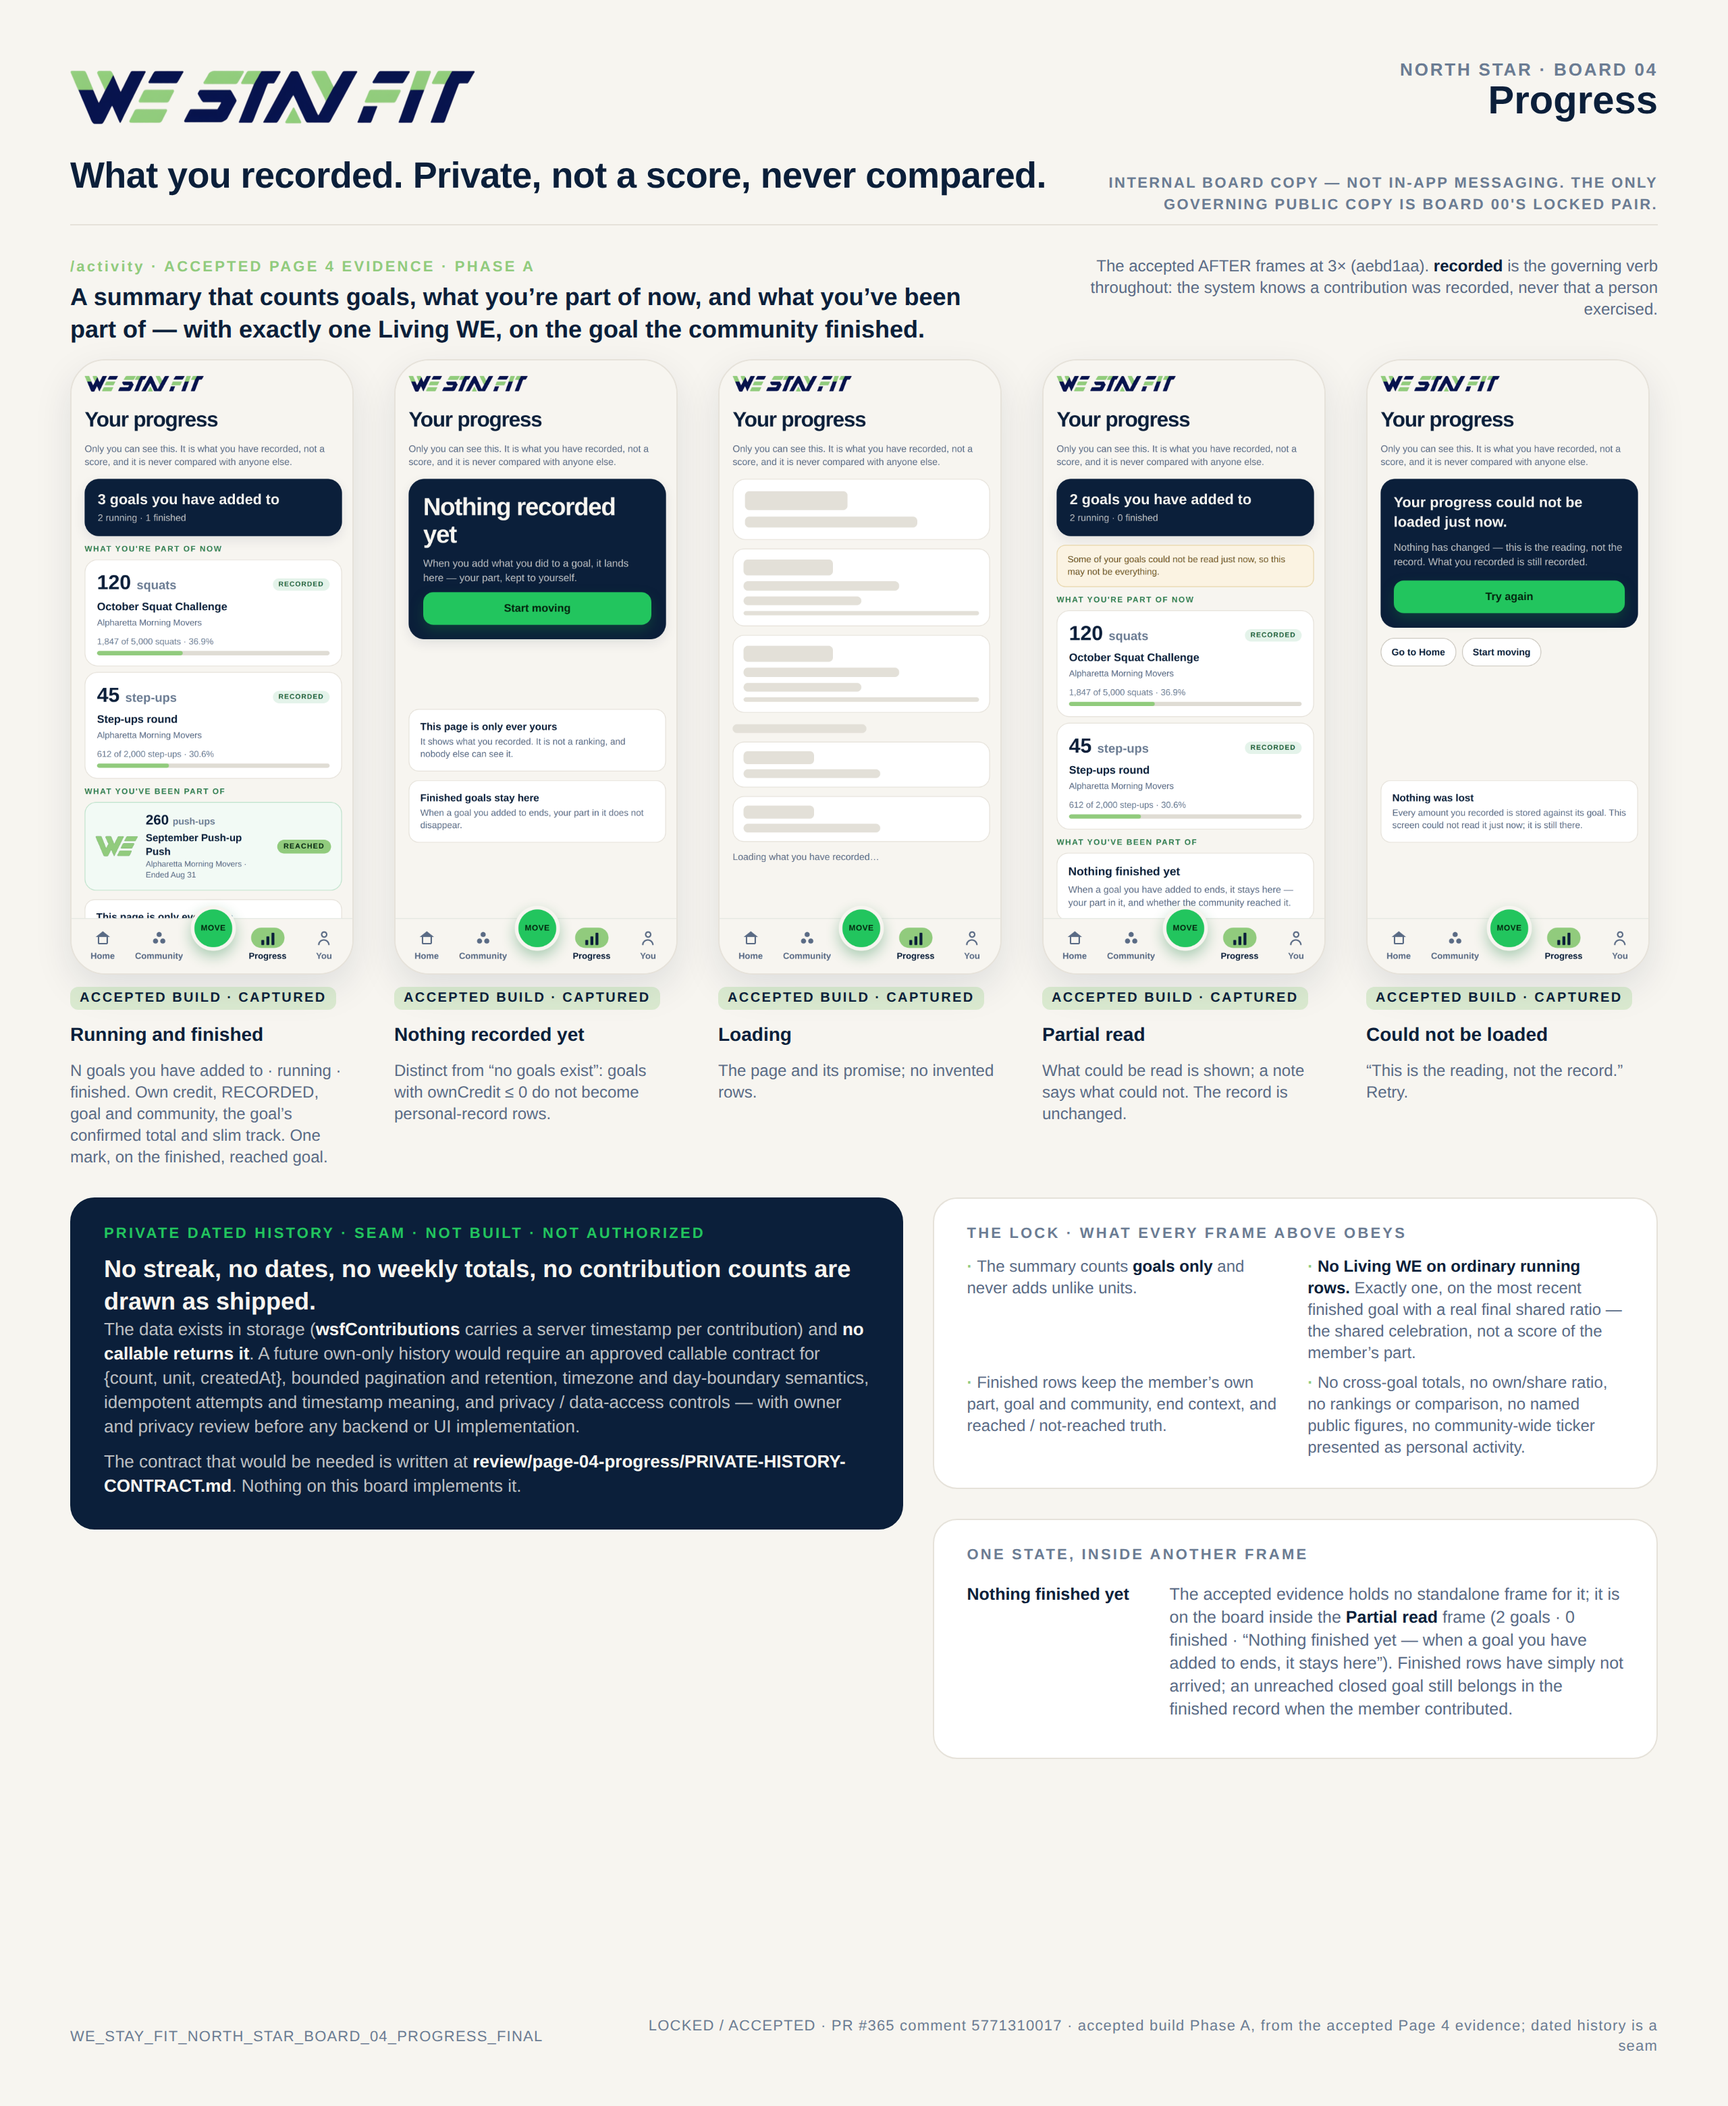
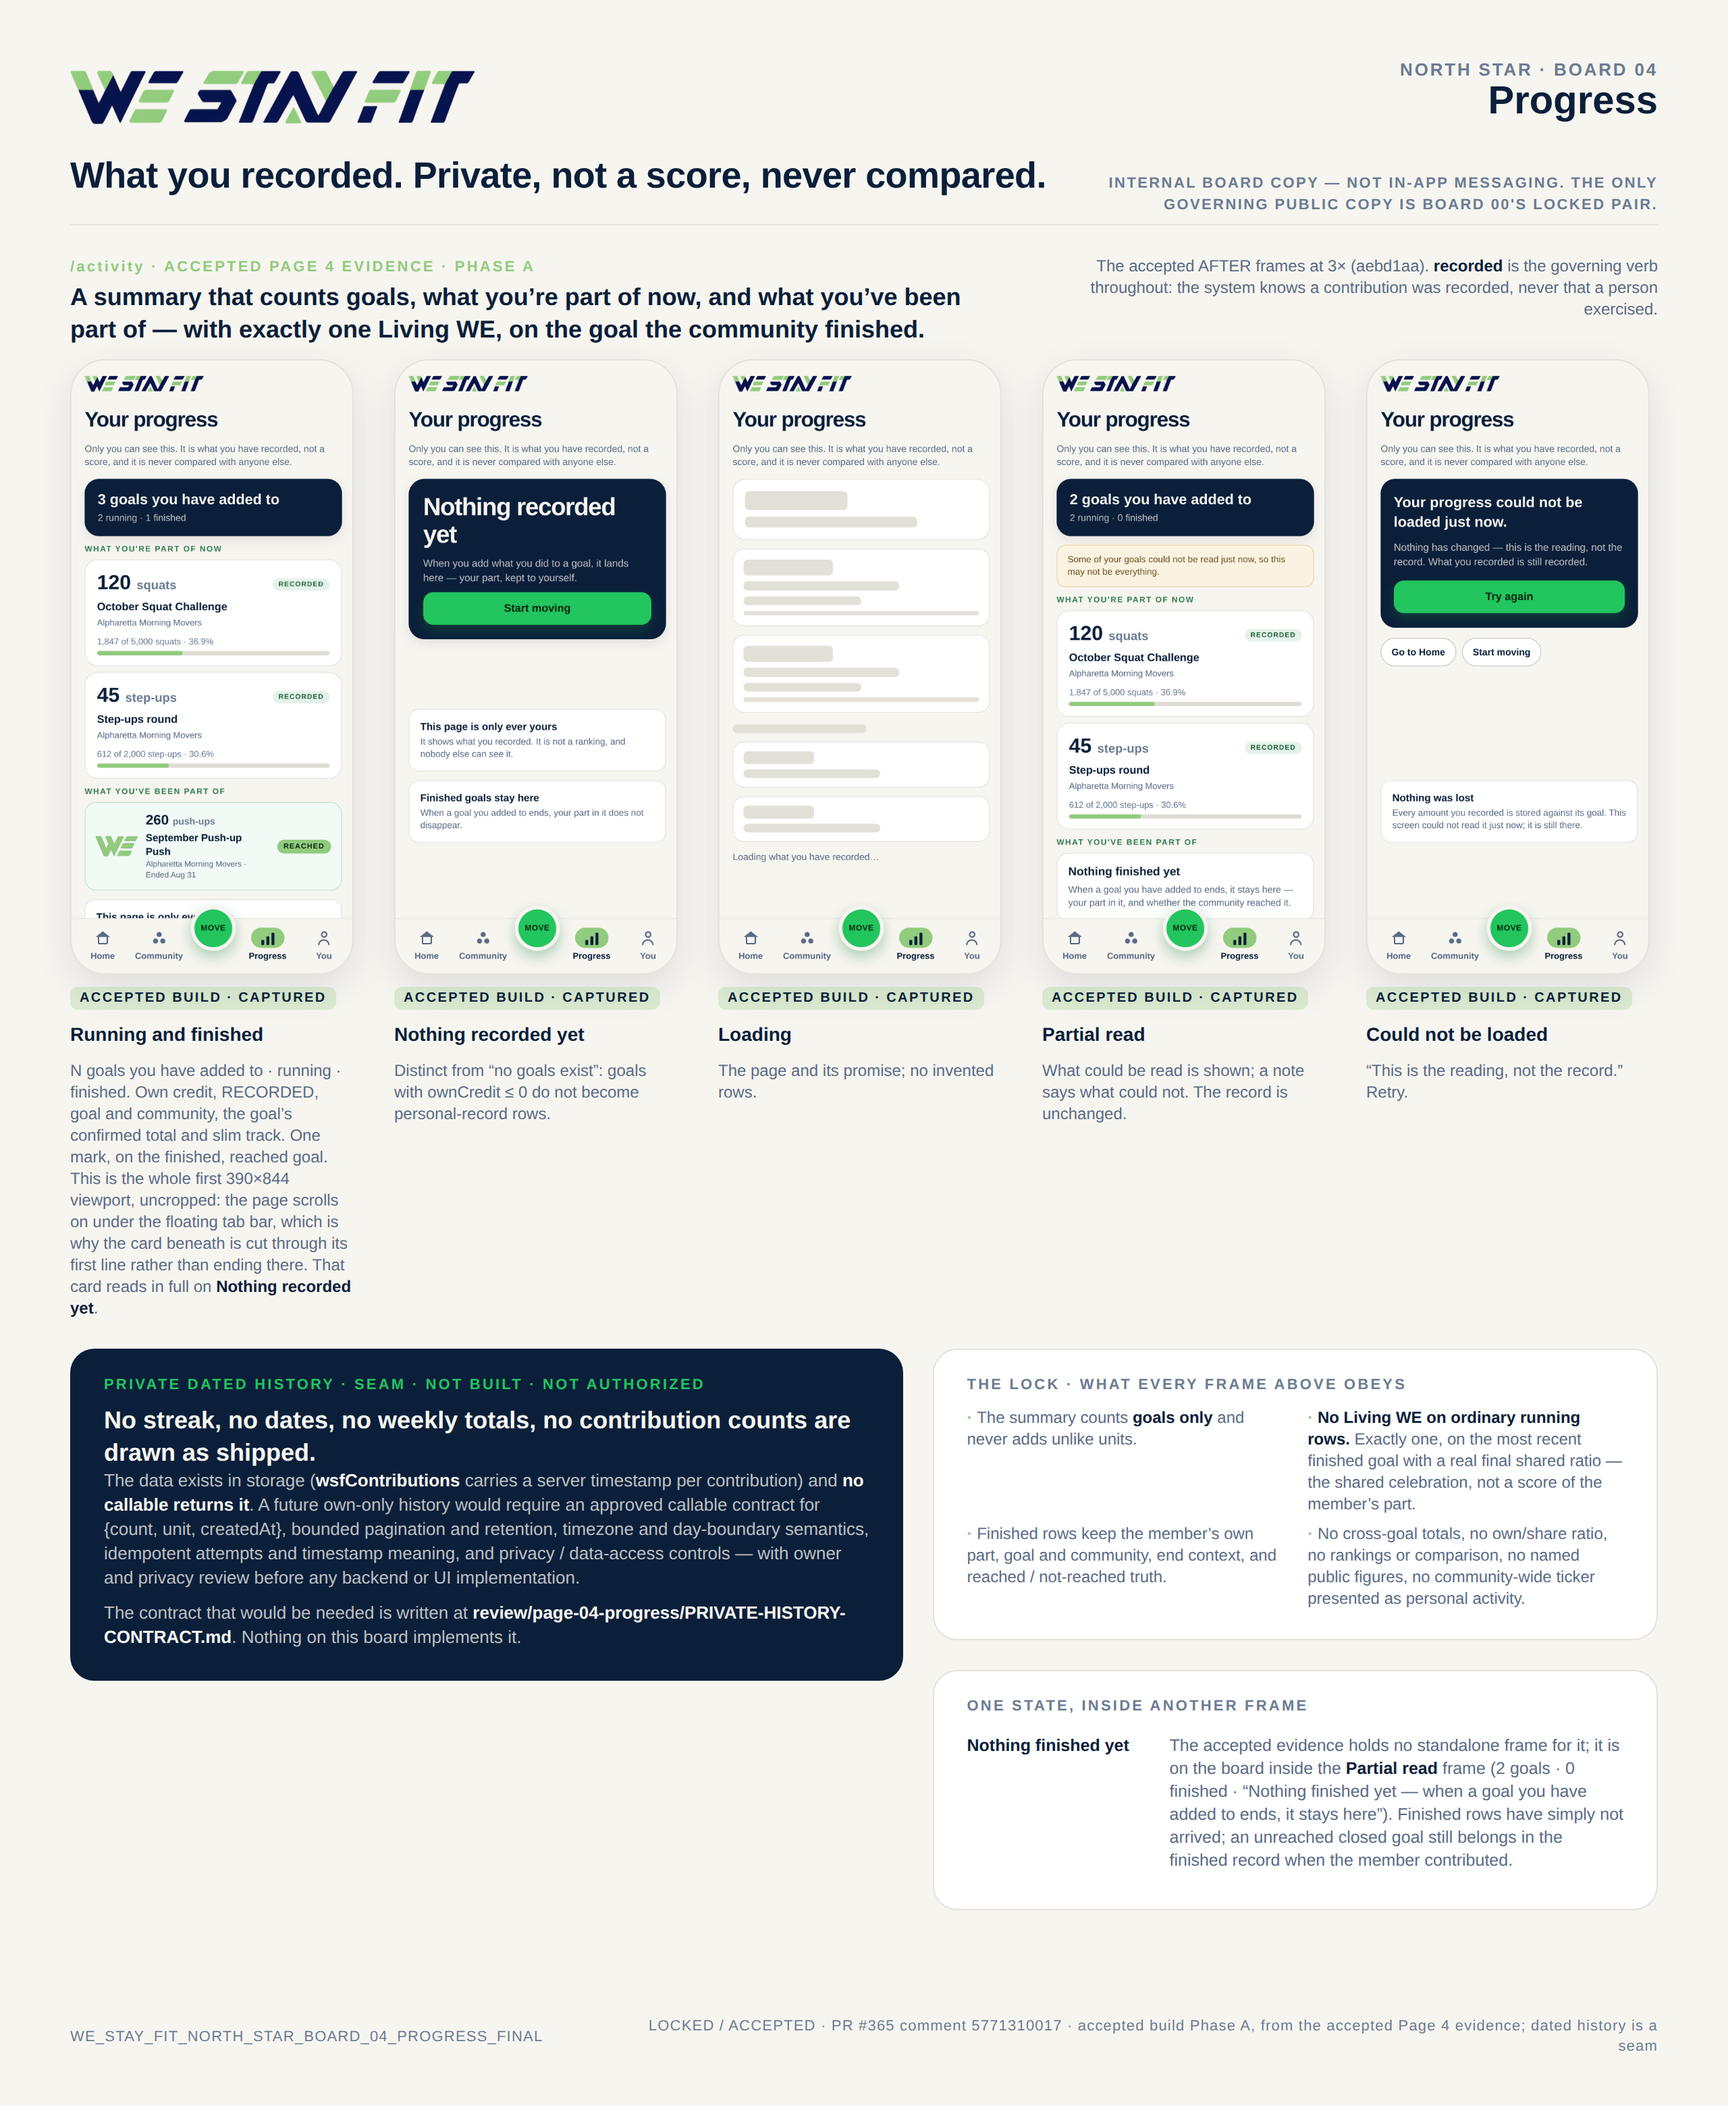
docs(westayfit): Boards 02/04/05 — the three audit repairs, nothing else
Bounded repair packet authorised by PR #365 comment 5782379245 section 3, cut
from canonical e9ad923. Three findings from the independent audit, each fixed
where the fault actually was.

P-6, Board 02: the board carried two synthetic fixture communities without
saying so -- Alpharetta Morning Movers on the nine accepted frames, Smyrna
Strong on the two captured confirmations. A "Fixture communities" row now sits
in the panel that already records this class of gap. No frame changed. The
board is 2560 tall rather than 2470 because the added row pushed the footer
past the old fixed height; the first render of this pass proved it by clipping
the footer, so the height follows the content instead of the content being cut
to fit.

P-2, Board 04: reading the source changed the repair. AFTER-rows-390x844.png is
1170x2532 -- exactly 390x844 at 3x -- and board-04.mjs renders it whole into a
slot of the same aspect, uncropped. The sliced card is therefore the real fold,
not a rendering fault: it is what the first viewport of /activity shows, with
the page continuing under the tab bar. Cropping the tab bar away or re-cutting
the viewport would pass an altered frame off as a product capture, so neither
was done. The caption was the untruthful part and it is what changed: it now
says the frame is the whole first viewport, why the card beneath is cut, and
where that card reads in full. No pixel of any frame changed.
[…]

Changed region(s): [[0.0312, 0.5596, 0.5312, 0.8083], [0.5625, 0.5907, 0.9375, 0.9016], [0.5625, 0.5907, 0.6875, 0.6218]]

diff --git a/docs/design-target/north-star-final/board-02/README.md b/docs/design-target/north-star-final/board-02/README.md
@@ -36,3 +36,22 @@ Eleven frames. Nine are the **accepted Page 2 AFTER evidence** — `docs/design-
 - The lock's **illustrative fixture** was 241 → 261 of 500 with own credit 120 → 140. The accepted evidence carries the accepted fixture (1,847 → 1,867 of 5,000, own credit 0 → 20). The two new confirmations use 500-target fixtures so the reached and post-target states are exact.
 - The receipt contract carries `crossedTarget`, but `functions-westayfit/src/index.ts` never raises it yet (*"never raised here"*), so the member whose attempt crossed reads the state truth **"Our goal is reached."** and no "this one took us past our goal" line. The board shows what the product says, not what the contract could say.
 - `SAMPLE DATA` appears at the foot of the accepted confirmation frames and the two new ones alike; it is the route's own label on the emulator build.
+
+## Repair pass — 2026-09-22 (W2, packet P-6)
+
+Authorised by PR #365 comment [`5782379245`](https://github.com/idevinsimpson/goarrive/pull/365#issuecomment-5782379245) §3, from canonical `e9ad923`.
+
+The independent audit found that this board carries **two** synthetic fixture
+communities without saying so: the nine accepted frames are seeded
+`Alpharetta Morning Movers`, while the two confirmations captured for the
+reached and post-target states are seeded `Smyrna Strong`. A reader following
+one community through the journey was handed another halfway down, and the
+panel that exists to record exactly this kind of gap did not mention it.
+
+A `Fixture communities` row now sits in that panel, between `Numbers` and
+`Crossing claim`. **No frame changed** — the disclosure is the repair.
+
+The board is **2560 px tall (1×) instead of 2470**: the added row pushed the
+footer past the old fixed height, which the first render of this pass proved by
+clipping it. The height follows the content rather than the content being cut
+to fit.

diff --git a/docs/design-target/north-star-final/board-04/README.md b/docs/design-target/north-star-final/board-04/README.md
@@ -29,3 +29,28 @@ Five frames, all the **accepted Page 4 AFTER evidence** (`docs/design-target/rev
 ## One state inside another frame
 
 The lock names **Nothing finished yet**. The accepted evidence has no standalone frame for it; it is on the board inside the partial-read frame, which the page renders with 0 finished goals. Flagged on the board rather than captured anew, because the accepted evidence is the source this board is built from.
+
+## Repair pass — 2026-09-22 (W2, packet P-2)
+
+Authorised by PR #365 comment [`5782379245`](https://github.com/idevinsimpson/goarrive/pull/365#issuecomment-5782379245) §3, from canonical `e9ad923`.
+
+The independent audit reported the `Running and finished` frame as a clipping
+defect: the card below the finished goal is sliced through its first line and
+the floating MOVE button sits on the remaining words.
+
+**Checking the source changed what the repair had to be.**
+`AFTER-rows-390x844.png` is 1170×2532 — exactly 390×844 at 3× — and
+`board-04.mjs` renders it whole into a slot of the same aspect. Nothing crops
+it. So the slice is not a rendering fault: it is **the real fold**, what the
+first viewport of `/activity` actually shows, with the page continuing under
+the tab bar.
+
+There is therefore nothing to repair in the pixels, and inventing one would
+mean cropping the tab bar away or re-cutting the viewport — passing an altered
+frame off as a product capture. **Not done, and not doable honestly.**
+
+What was wrong is the caption, which described the content as though it were
+all visible and never said the viewport ended there. It now states that the
+frame is the whole first 390×844 viewport, uncropped, that the page scrolls on
+under the tab bar, and that the same card reads in full on
+`Nothing recorded yet`. **No frame changed; the board is the same size.**

diff --git a/docs/design-target/north-star-final/board-05/README.md b/docs/design-target/north-star-final/board-05/README.md
@@ -30,3 +30,26 @@ Six frames, all the **accepted Page 5 AFTER evidence** (`docs/design-target/revi
 ## Fixture note
 
 The display name on the accepted frames is the accepted fixture's (`Devin`, seeded by the Page 5 capture spec) and the email is a generated fixture address. Neither is presented as a real account.
+
+## Repair pass — 2026-09-22 (W2, packet P-4)
+
+Authorised by PR #365 comment [`5782379245`](https://github.com/idevinsimpson/goarrive/pull/365#issuecomment-5782379245) §3, from canonical `e9ad923`.
+
+The independent audit found the board asserting a **dominant** Living WE that
+the accepted build does not render. Measured on the `Member` frame, the mark is
+a compact inline element beside the goal text — about a twelfth of the screen's
+height — not a dominant field like Home's hero. It is correct, calibrated and
+the only mark on the page; it is simply not dominant.
+
+The word appeared twice, and the two needed opposite treatment:
+
+- the **lock panel** quotes the lock's own sentence (`5771338856`: *"exactly one
+  dominant Living WE may represent…"*). A faithful quotation of a lock is not
+  ours to rewrite, so it is **unaltered**;
+- the **board's own lead line** claimed it as a description of these frames.
+  That now reads *"the page's only Living WE, on its real open goal"* — true of
+  what is shown.
+
+A `where the accepted build reads differently from the lock's wording` panel
+records the gap, so the board neither edits the lock nor quietly implies the
+frames satisfy its adjective. **No frame changed; the board is the same size.**
